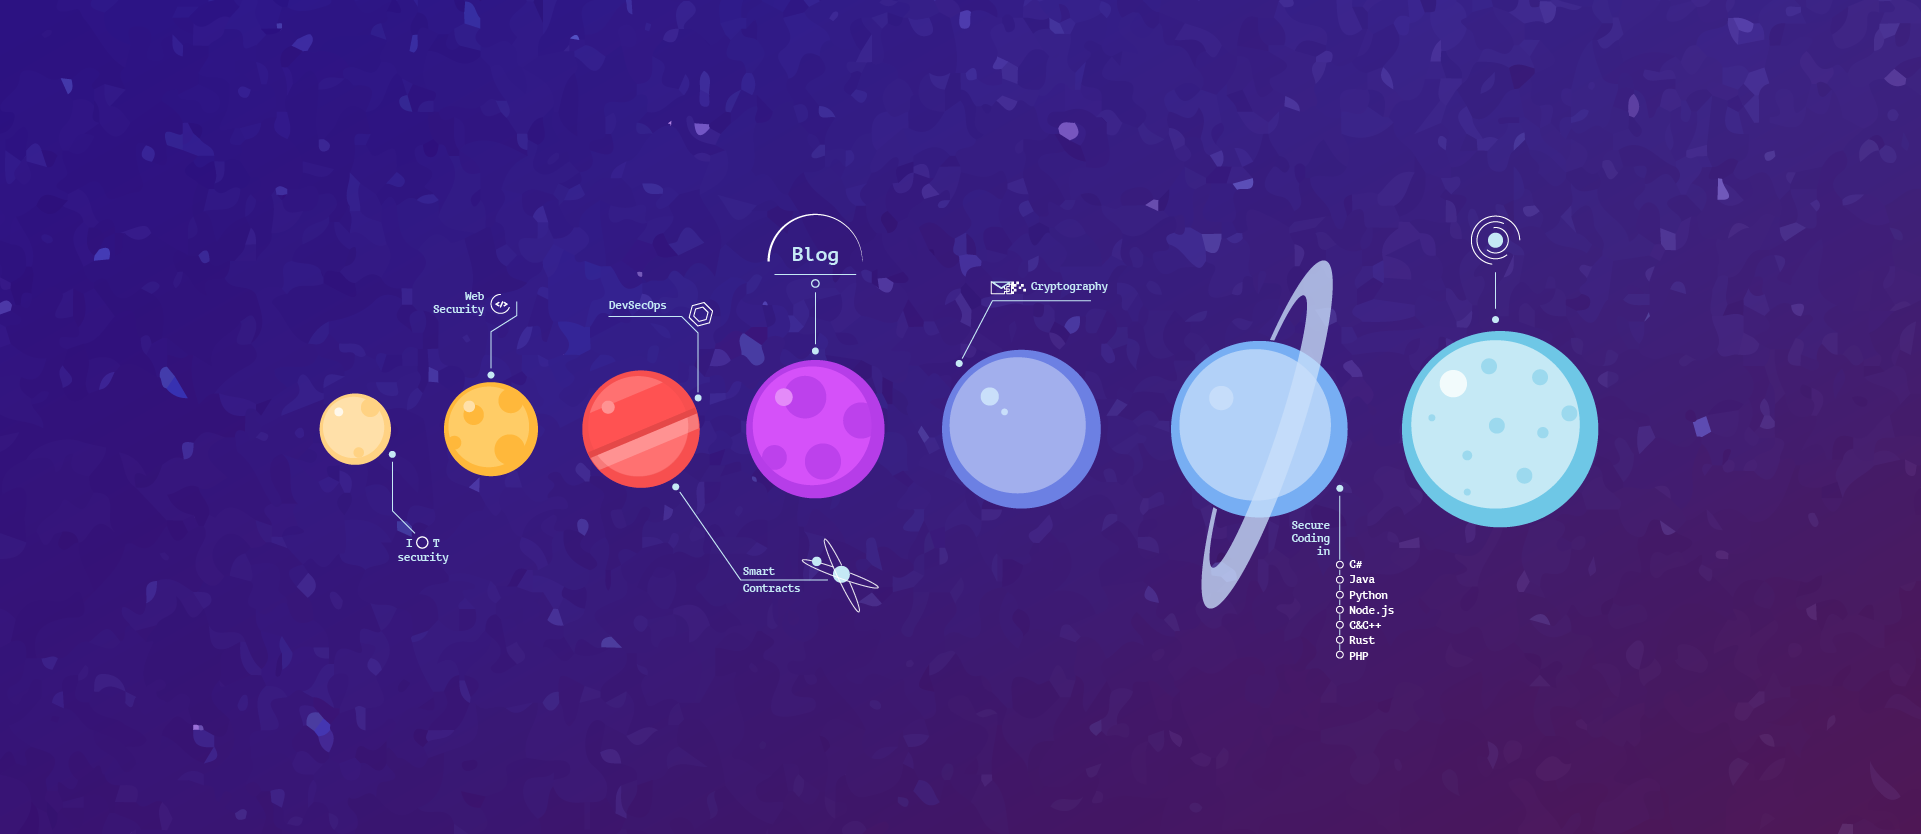
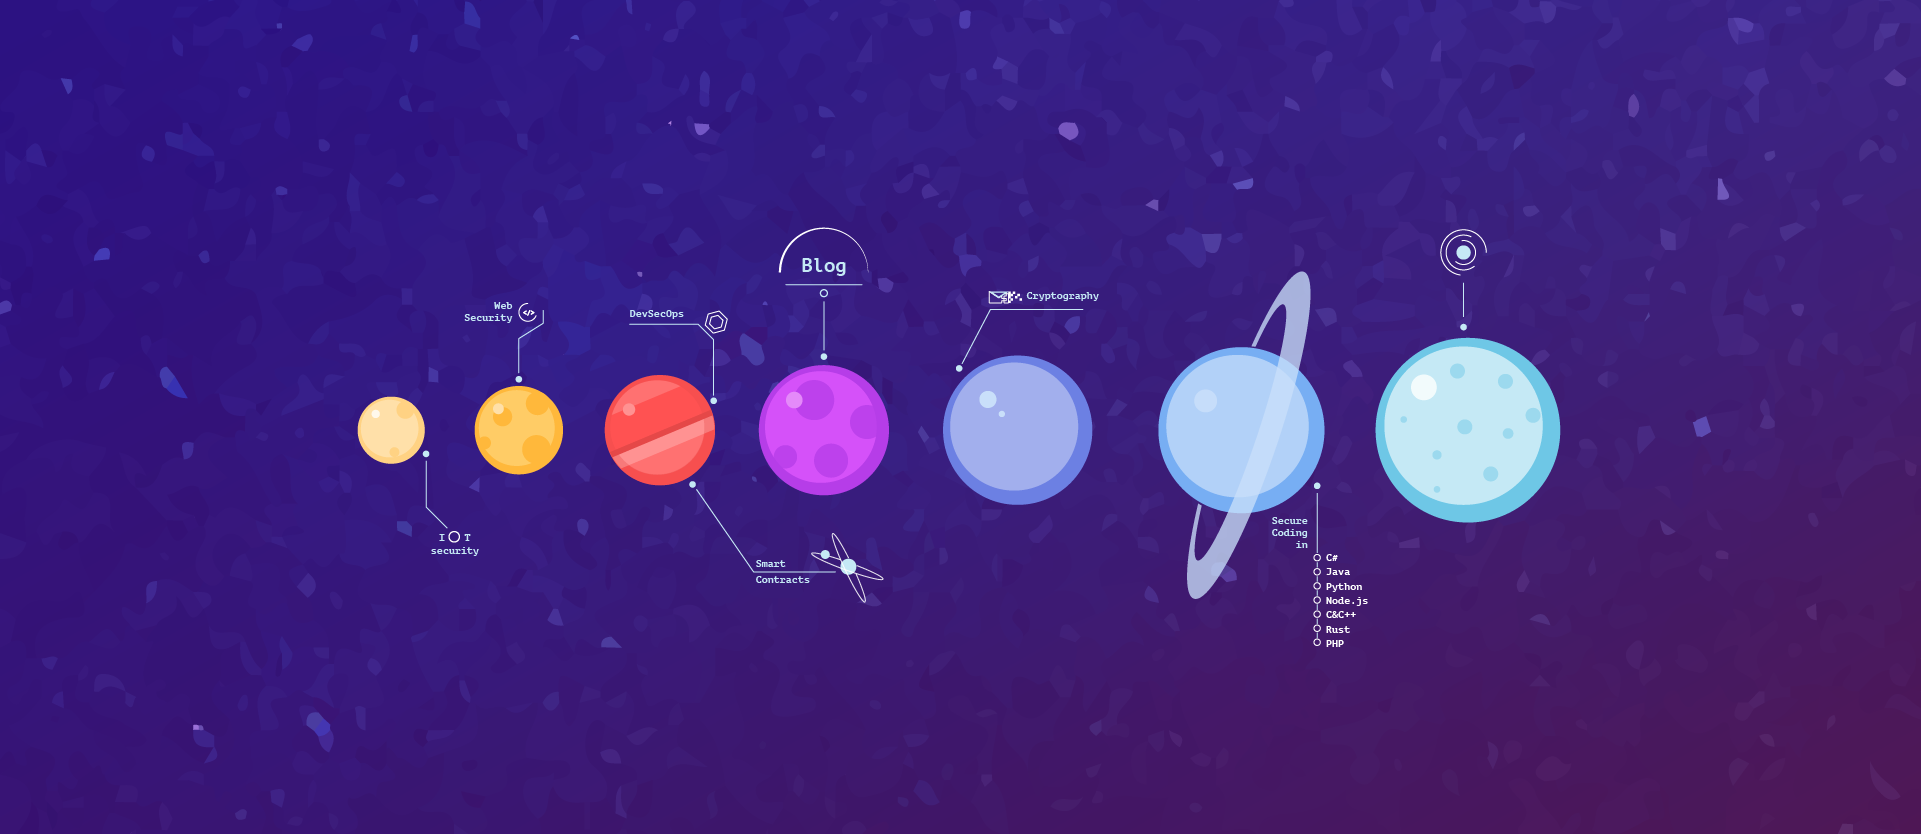
Resized blogbg and removed bloglogo

diff --git a/_layouts/default.html b/_layouts/default.html
@@ -21,9 +21,9 @@ layout: compress
 
     <div class="hero-main lazyload" data-bg="{{ site.url }}{{ site.baseurl }}/assets/img/{{ site.hero_img }}">
       <div class="hero__wrap hero__logo bloglogo_position">
-        <div>
+        <!-- <div>
           {% include bloglogo.svg %}
-        </div>
+        </div> -->
       </div>
     </div>
 
